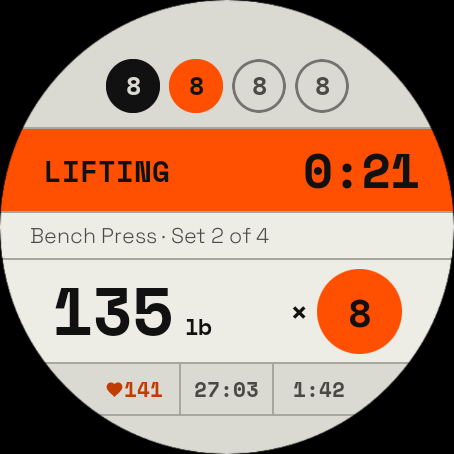
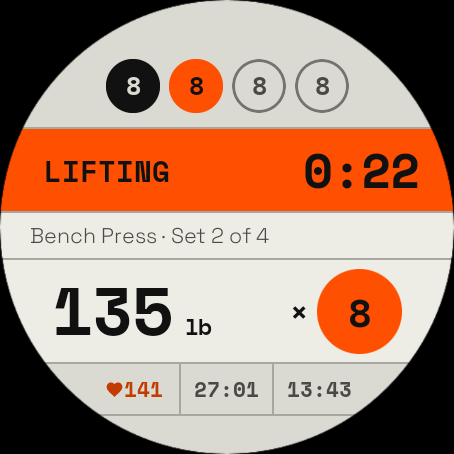
Watch fonts registered by their bundle path; Wear shots from the capture script

Changed region(s): [[0.6167, 0.8326, 0.7709, 0.8943], [0.8634, 0.3392, 0.9251, 0.4009], [0.5242, 0.8326, 0.5859, 0.8943]]

diff --git a/app/ios/SchliftWatch/ContentView.swift b/app/ios/SchliftWatch/ContentView.swift
@@ -1,8 +1,9 @@
 import SwiftUI
 
-/// The phone app's fonts, registered via Info.plist UIAppFonts: Space Grotesk for
-/// words, Space Mono for numbers.
-private let bodyFont = "SpaceGrotesk-Variable"
+/// The phone app's fonts, registered via Info.plist UIAppFonts (the files sit at the
+/// bundle's root): Space Grotesk for words, Space Mono for numbers. Space Grotesk is a
+/// variable font, so it goes by its family name and takes its weight from `.weight`.
+private let bodyFont = "Space Grotesk"
 
 func textFontName(size: CGFloat, weight: Font.Weight = .medium) -> Font {
     .custom(bodyFont, size: size).weight(weight)

diff --git a/scripts/capture_watch_screenshots.py b/scripts/capture_watch_screenshots.py
@@ -28,10 +28,14 @@ import os
 import plistlib
 import subprocess
 import time
+from collections.abc import Callable
 from pathlib import Path
 
 ROOT = Path(__file__).resolve().parent.parent
 BPM = 141
+# Seconds from an Apple Watch launch to its screenshot: fonts, the first layout and
+# the plate sheet's slide in.
+SETTLE = 6
 WEAR_ACTIVITY = "com.brensch.schlift.debug/com.brensch.schlift.wear.MainActivity"
 WEAR_RECEIVER = "com.brensch.schlift.debug/com.brensch.schlift.wear.DebugSnapshotReceiver"
 # The weight on the 454 px round Wear face: a tap there opens the plates.
@@ -60,8 +64,10 @@ def circles(states: list[str], reps: int) -> str:
     )
 
 
-def bench(state: str, label: str, circle_states: list[str], now: int, **times: int) -> str:
-    """Bench Press, set 2 of 4: 135 lb for 8, 27 minutes in."""
+def bench(
+    state: str, label: str, set_no: int, circle_states: list[str], now: int, **times: int
+) -> str:
+    """Bench Press, set `set_no` of 4: 135 lb for 8, 27 minutes in."""
     fields = "\n".join(f"{k}: {v}" for k, v in times.items())
     return f"""workout_id: "store"
 emitted_at: {now * 1000}
@@ -72,9 +78,9 @@ workout_start_time: {now - 27 * 60}
 you_card {{
   state_label: "{label}"
   yapping_label: "Yapping"
-  display_set {{ id: "s2" exercise: EXERCISE_BENCH_PRESS target_reps: 8 target_weight: 135 }}
+  display_set {{ id: "s{set_no}" exercise: EXERCISE_BENCH_PRESS target_reps: 8 target_weight: 135 }}
   exercise_name: "Bench Press"
-  set_line: "Set 2 of 4"
+  set_line: "Set {set_no} of 4"
   set_text: "135 lb {TIMES} 8"
   weight_text: "135"
   unit_text: "lb"
@@ -113,14 +119,16 @@ actions {{ type: WEAR_ACTION_TYPE_END_WORKOUT label: "End workout" }}
 {AMBIENT}"""
 
 
-def scenes(now: int) -> list[tuple[str, str, bool]]:
-    """(name, snapshot text, plates open), in listing order."""
+def scenes() -> list[tuple[str, Callable[[int], str], bool]]:
+    """(name, snapshot text from now, plates open), in listing order. Each is made
+    when it is shown, so its timers read as written here."""
     return [
         (
             "01_active_set",
-            bench(
+            lambda now: bench(
                 "LIFTING",
                 "Lifting",
+                2,
                 ["FULL", "LIFTING", "PENDING", "PENDING"],
                 now,
                 lifting_started_at=now - 21,
@@ -129,9 +137,10 @@ def scenes(now: int) -> list[tuple[str, str, bool]]:
         ),
         (
             "02_rest_timer",
-            bench(
+            lambda now: bench(
                 "RESTING",
                 "Resting",
+                3,
                 ["FULL", "FULL", "NEXT", "PENDING"],
                 now,
                 rest_until=now + 102,
@@ -139,7 +148,7 @@ def scenes(now: int) -> list[tuple[str, str, bool]]:
             ),
             False,
         ),
-        ("03_plates", squat_plates(now), True),
+        ("03_plates", squat_plates, True),
     ]
 
 
@@ -161,15 +170,15 @@ def encode(text: str) -> str:
 def capture_apple(udid: str, app: Path, out: Path) -> None:
     bundle = plistlib.loads((app / "Info.plist").read_bytes())["CFBundleIdentifier"]
     subprocess.run(["xcrun", "simctl", "install", udid, str(app)], check=True)
-    for name, text, open_plates in scenes(int(time.time())):
+    for name, snapshot, open_plates in scenes():
         subprocess.run(["xcrun", "simctl", "terminate", udid, bundle], check=False)
         env = dict(os.environ)
-        env["SIMCTL_CHILD_SCHLIFT_SNAPSHOT"] = encode(text)
+        # The watch counts on its wall clock: times from when the screenshot is taken.
+        env["SIMCTL_CHILD_SCHLIFT_SNAPSHOT"] = encode(snapshot(int(time.time()) + SETTLE))
         env["SIMCTL_CHILD_SCHLIFT_BPM"] = str(BPM)
         env["SIMCTL_CHILD_SCHLIFT_PLATES"] = "1" if open_plates else "0"
         subprocess.run(["xcrun", "simctl", "launch", udid, bundle], env=env, check=True)
-        # Fonts, the first layout and the plate sheet's slide in.
-        time.sleep(6)
+        time.sleep(SETTLE)
         path = out / f"apple_watch_{name}.png"
         subprocess.run(["xcrun", "simctl", "io", udid, "screenshot", str(path)], check=True)
         print(f"wrote {path}")
@@ -177,10 +186,12 @@ def capture_apple(udid: str, app: Path, out: Path) -> None:
 
 def capture_wear(serial: str, out: Path) -> None:
     adb = [os.environ.get("ADB", "adb"), "-s", serial]
-    for name, text, open_plates in scenes(int(time.time())):
+    for name, snapshot, open_plates in scenes():
         subprocess.run([*adb, "shell", "am", "force-stop", "com.brensch.schlift.debug"], check=True)
         subprocess.run([*adb, "shell", "am", "start", "-n", WEAR_ACTIVITY], check=True)
         time.sleep(3)
+        # Wear counts on from the snapshot's emitted_at, so now is the moment.
+        text = snapshot(int(time.time()))
         # Sent twice: the emulator's sensor reads 0 once a set starts.
         for _ in range(2):
             subprocess.run(

diff --git a/scripts/check_store_text.py b/scripts/check_store_text.py
@@ -58,6 +58,9 @@ def compose_description(listing: dict) -> str:
 
 CAPTION_TITLE_LIMIT = 28
 CAPTION_SUBTITLE_LIMIT = 80
+# A watch slide leaves the subtitle three lines (frame_store_screenshots.py's
+# watch_html), a phone slide two.
+CAPTION_SUBTITLE_LIMIT_WATCH = 120
 
 
 def play_short_description(listing: dict) -> str:
@@ -143,10 +146,14 @@ def check(listing: dict, raw_dir: Path = RAW_DIR) -> list[str]:
                 f"{where}: title is {len(title)} characters; "
                 f"keep it under {CAPTION_TITLE_LIMIT} so it fits on one line"
             )
-        if len(subtitle) > CAPTION_SUBTITLE_LIMIT:
+        limit = (
+            CAPTION_SUBTITLE_LIMIT_WATCH
+            if slide.get("device") == "watch"
+            else CAPTION_SUBTITLE_LIMIT
+        )
+        if len(subtitle) > limit:
             problems.append(
-                f"{where}: subtitle is {len(subtitle)} characters; "
-                f"keep it under {CAPTION_SUBTITLE_LIMIT}"
+                f"{where}: subtitle is {len(subtitle)} characters; keep it under {limit}"
             )
         if raw_dir.is_dir() and not (raw_dir / slide["file"]).is_file():
             problems.append(f"{where}: {slide['file']} is not in {raw_dir.relative_to(ROOT)}")

diff --git a/docs/releasing.md b/docs/releasing.md
@@ -326,7 +326,7 @@ API, from two committed sources:
   the listing has. Screenshot captions live here too.
 - **`store/screenshots/raw/`** — raw captures: `store_NN.png` phone slides
   (1080×2337, dark mode), `wear_*.png` Wear OS captures (454×454, round),
-  `apple_watch_*.png` Apple Watch images (396×484: the Wear face on black).
+  `apple_watch_*.png` Apple Watch captures (396×484, from the simulator).
   A slide with `device: watch` frames a Wear capture as a watch on a
   phone-sized image.
 
@@ -387,27 +387,37 @@ one shot per slide.
 Add, remove or reorder slides there and in `listing.yaml` together. Commit the
 new PNGs.
 
-Watch captures need no phone. The debug watch app has a receiver
-(`app/android/wear/src/debug/.../DebugSnapshotReceiver.kt`, never in a
-release build) that takes a `WearWorkoutSnapshot` over adb, plus a heart
-rate, since an emulator has no sensor:
+Watch captures need no phone. Both debug watch apps take a
+`WearWorkoutSnapshot` as the phone would send it, plus a heart rate (a
+simulator or emulator has no sensor), through a hook that is never in a
+release build: on Wear OS a broadcast receiver
+(`app/android/wear/src/debug/.../DebugSnapshotReceiver.kt`), on the Apple
+Watch the launch environment (`PhoneConnector.applyDebugLaunch`, and
+`SCHLIFT_PLATES=1` opens the plate screen). `scripts/capture_watch_screenshots.py`
+holds the store scenes (lifting, resting, the plates), sets their times from
+now and shoots each one.
+
+Wear OS, on this machine:
 
 ```bash
 make android-wear-emulator-start            # lift_wear_api34, 454×454 round
+(cd app/android && ./gradlew :wear:assembleDebug)
 adb -s <watch> install -r app/build/wear/outputs/apk/debug/wear-debug.apk
-adb -s <watch> shell am start -n com.brensch.schlift.debug/com.brensch.schlift.wear.MainActivity
-B64=$(protoc --proto_path=proto --encode=workout.v1.WearWorkoutSnapshot \
-  workout/v1/wearable.proto < snapshot.txtpb | base64 -w0)
-adb -s <watch> shell am broadcast \
-  -n com.brensch.schlift.debug/com.brensch.schlift.wear.DebugSnapshotReceiver \
-  --es snapshot "$B64" --ef bpm 141
-adb -s <watch> exec-out screencap -p > store/screenshots/raw/wear_01_active_set.png
+ADB=adb python3 scripts/capture_watch_screenshots.py wear --serial <watch>
 ```
 
-`snapshot.txtpb` is a text-format snapshot (state, circles, `you_card`).
-Send `bpm` again just before the screenshot while lifting: the emulator's
-sensor reads 0 once a set starts. The Apple Watch images are the same
-captures scaled to 396 wide and centred on a black 396×484.
+Apple Watch, on a macOS runner (Swift does not build here): Actions →
+**Watch Screenshots** → *Run workflow*. It builds the debug watch app for a
+watchOS simulator (Apple Watch Series 9 45mm, 396×484, the size
+`store_listing_app_store.py` uploads), shoots the same scenes and uploads
+them as the `apple-watch-screenshots` artifact:
+
+```bash
+gh workflow run watch-screenshots.yml
+gh run download <run id> --name apple-watch-screenshots --dir store/screenshots/raw
+```
+
+Commit the new PNGs.
 
 ### Render and review
 
